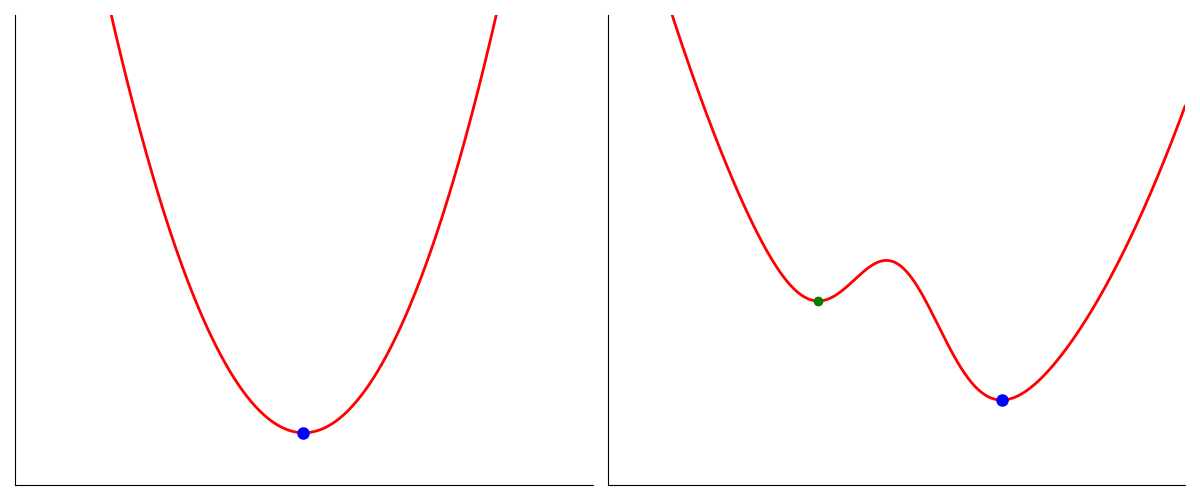
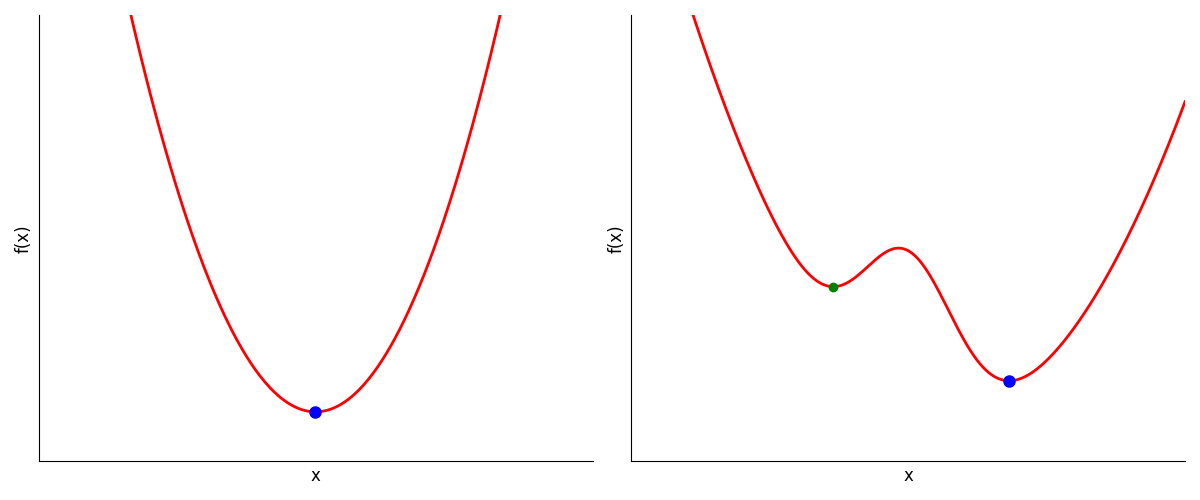
cvx_opt: some visualizations

diff --git a/convex_optimization_from_scratch/grad.py b/convex_optimization_from_scratch/grad.py
@@ -1,0 +1,109 @@
+import numpy as np
+import matplotlib.pyplot as plt
+
+# Create figure and axis
+fig, ax = plt.subplots(1, 1, figsize=(10, 7))
+
+# Generate data for the cost function curve
+w = np.linspace(-2, 4, 1000)
+J_w = 0.5 * (w - 1.5)**2 + 0.3  # Parabolic cost function with minimum at w=1.5
+
+# Plot the main cost function curve
+ax.plot(w, J_w, color='#4A90E2', linewidth=4, label='Cost Function J(w)')
+
+# Define key points
+w_initial = 3.2  # Initial weight position
+w_min = 1.5      # Global minimum position
+J_initial = 0.5 * (w_initial - 1.5)**2 + 0.3
+J_min = 0.3
+
+# Plot the initial weight point
+ax.plot(w_initial, J_initial, 'ko', markersize=12, zorder=5)
+
+# Plot the global minimum point
+ax.plot(w_min, J_min, 'ko', markersize=8, zorder=5)
+
+# Calculate gradient at initial point (derivative of the cost function)
+gradient_slope = w_initial - 1.5  # Derivative of 0.5*(w-1.5)^2
+gradient_length = 0.8
+
+# Draw gradient arrow (tangent line showing gradient direction)
+gradient_start_w = w_initial - 0.3
+gradient_end_w = w_initial + 0.3
+gradient_start_J = J_initial - 0.3 * gradient_slope
+gradient_end_J = J_initial + 0.3 * gradient_slope
+
+ax.plot([gradient_start_w, gradient_end_w], [gradient_start_J, gradient_end_J], 
+        'k-', linewidth=2, zorder=4)
+
+# Add gradient arrow
+ax.annotate('', xy=(gradient_end_w, gradient_end_J), 
+            xytext=(gradient_start_w, gradient_start_J),
+            arrowprops=dict(arrowstyle='->', color='black', lw=2))
+
+# Draw dashed vertical line from initial point
+ax.plot([w_initial, w_initial], [0, J_initial], 'k--', linewidth=2, alpha=0.7)
+
+# Draw arrows showing the optimization path
+arrow_positions = [
+    (w_initial - 0.2, J_initial - 0.15),
+    (w_initial - 0.5, J_initial - 0.4),
+    (w_initial - 0.8, J_initial - 0.7),
+    (w_initial - 1.1, J_initial - 1.0)
+]
+
+for i, (w_pos, J_pos) in enumerate(arrow_positions):
+    ax.annotate('', xy=(w_pos - 0.15, J_pos - 0.1), xytext=(w_pos, J_pos),
+                arrowprops=dict(arrowstyle='->', color='black', lw=1.5))
+
+# Add labels and annotations
+ax.text(w_initial + 0.1, J_initial + 0.3, 'Initial\nweight', fontsize=14, 
+        ha='left', va='bottom', fontweight='bold')
+
+ax.text(w_initial + 0.4, J_initial - 0.2, 'Gradient', fontsize=12, 
+        ha='left', va='center', rotation=25)
+
+ax.text(w_min - 0.3, J_min - 0.4, f'Global cost minimum\nJ_min(w)', fontsize=12, 
+        ha='center', va='top', fontweight='bold')
+
+# Set labels and title
+ax.set_xlabel('w', fontsize=16, fontweight='bold')
+ax.set_ylabel('J(w)', fontsize=16, fontweight='bold', rotation=0, labelpad=20)
+
+# Customize the plot
+ax.spines['top'].set_visible(False)
+ax.spines['right'].set_visible(False)
+ax.spines['left'].set_position(('data', -2))
+ax.spines['bottom'].set_position(('data', 0))
+
+# Add arrows to axes
+ax.annotate('', xy=(4.2, 0), xytext=(4, 0),
+            arrowprops=dict(arrowstyle='->', color='black', lw=1.5))
+ax.annotate('', xy=(-2, 3), xytext=(-2, 2.8),
+            arrowprops=dict(arrowstyle='->', color='black', lw=1.5))
+
+# Set axis limits
+ax.set_xlim(-2.2, 4.2)
+ax.set_ylim(-0.2, 3)
+
+# Remove tick marks but keep the grid subtle
+ax.set_xticks([])
+ax.set_yticks([])
+ax.grid(True, alpha=0.2)
+
+# Adjust layout and save
+plt.tight_layout()
+
+# Save the figure
+plt.savefig('gradient_descent_visualization.png', dpi=300, bbox_inches='tight', 
+            facecolor='white', edgecolor='none')
+
+# Also save as PDF for vector graphics
+plt.savefig('gradient_descent_visualization.pdf', bbox_inches='tight', 
+            facecolor='white', edgecolor='none')
+
+print("Gradient descent visualization saved as:")
+print("- gradient_descent_visualization.png")
+print("- gradient_descent_visualization.pdf")
+
+plt.show()

diff --git a/convex_optimization_from_scratch/0_big_picture.py b/convex_optimization_from_scratch/0_big_picture.py
@@ -20,6 +20,8 @@ ax1.plot(x, y_convex, 'r-', linewidth=2)
 ax1.grid(True, alpha=0.3)
 ax1.set_xlim(-3, 3)
 ax1.set_ylim(-0.5, 4)
+ax1.set_xlabel('x', fontsize=12)
+ax1.set_ylabel('f(x)', fontsize=12)
 
 # Mark the global minimum for convex function
 min_idx_convex = np.argmin(y_convex)
@@ -31,6 +33,8 @@ ax2.plot(x, y_nonconvex, 'r-', linewidth=2)
 ax2.grid(True, alpha=0.3)
 ax2.set_xlim(-3, 3)
 ax2.set_ylim(-0.5, 4)
+ax2.set_xlabel('x', fontsize=12)
+ax2.set_ylabel('f(x)', fontsize=12)
 
 # Find local minima for non-convex function
 local_min_indices = argrelextrema(y_nonconvex, np.less, order=20)[0]
